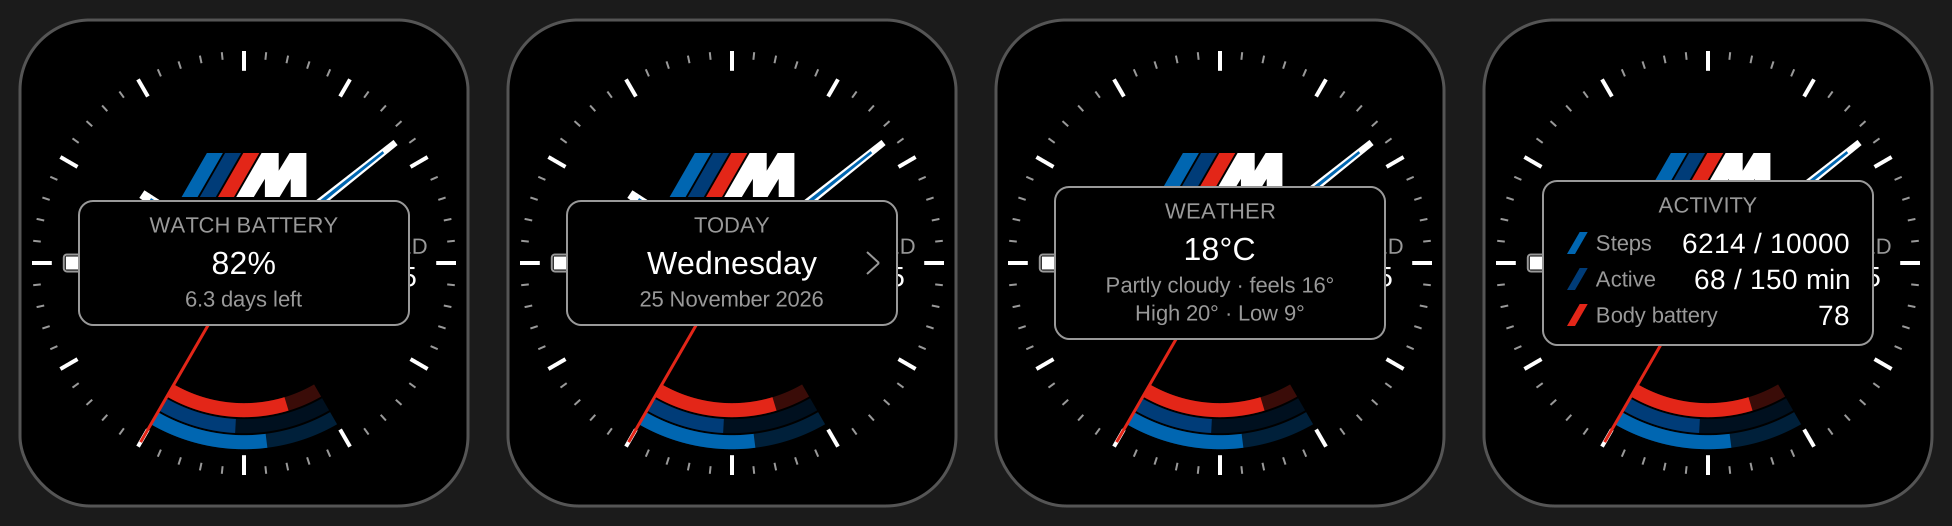
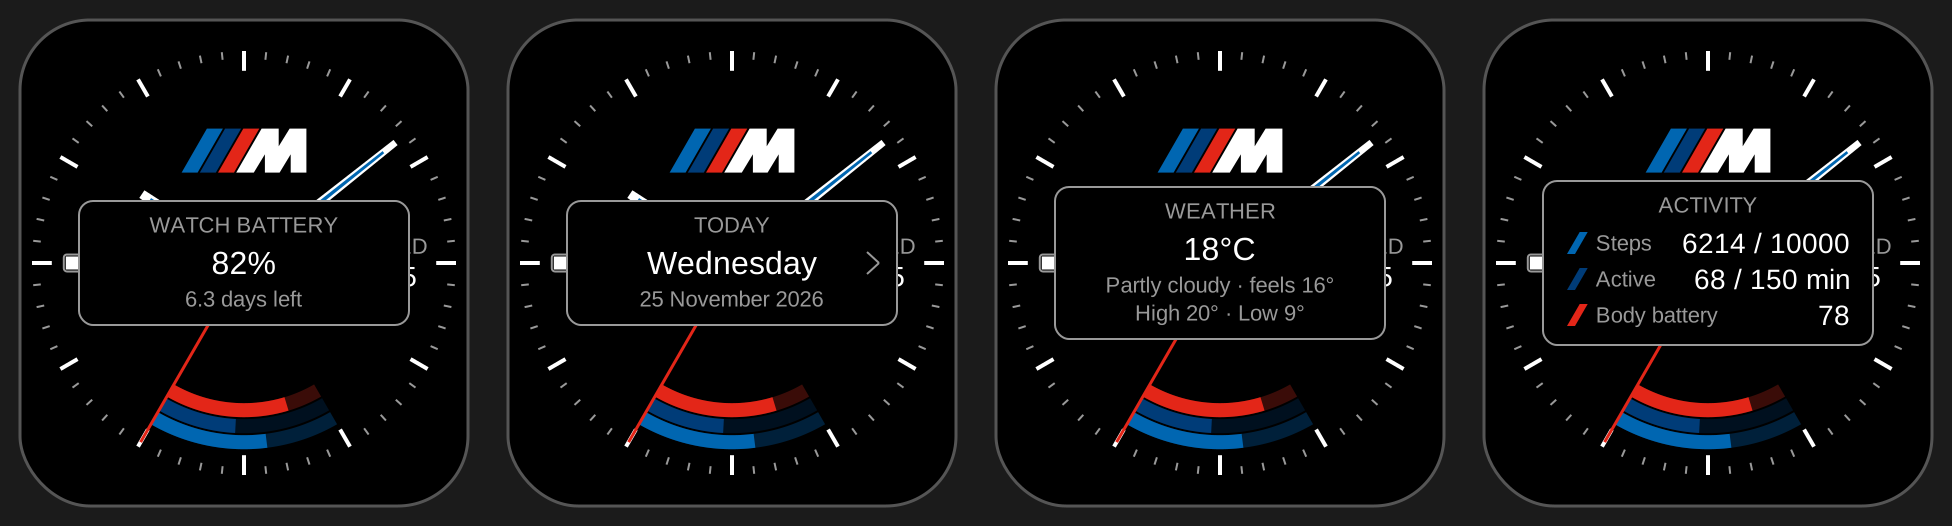
Centre the M badge between the roundel and the 12 o'clock tick (Geometry.badgeCenterY)
Claude-Session: https://claude.ai/code/session_01CEiR5mX4CwQUtKoZKTxSUA

diff --git a/tools/wireframes.py b/tools/wireframes.py
@@ -238,7 +238,7 @@ def dial_into(s, ox, oy, zones=False, card=None):
         inner = outer - (R * TICK_MAJOR if major else R * TICK_MINOR)
         s.line(pt(inner, 90 - i * 6), pt(outer, 90 - i * 6),
                WHITE if major else GREY, 4 if major else 2)
-    draw_badge(s, CY - R * .4)
+    draw_badge(s, CY - (R * .11 + 6 + 2.5 + TICK_INNER) / 2)    # Geometry.badgeCenterY(): midway between the roundel and the ticks
     arc = RING_OUT - PITCH                           # one arc: the middle ring's distance from the centre
     sx = CX + arc                                    # the date window at 3 o'clock
     hl, hv = FONT_PX["label"] * 1.2, FONT_PX["value"] * 1.2        # approximate line heights

diff --git a/README.md b/README.md
@@ -23,7 +23,7 @@ simulator screenshots. They are generated from `source/Theme.mc` by
 
 - Analog chronograph dial with a white-sword hand set, a red second hand
   (hidden in low-power mode) and a roundel at the hand pivot.
-- M badge at 12 o'clock, drawn from the flat M logo's geometry.
+- M badge at 12 o'clock, centred between the roundel and the 12 o'clock tick, drawn from the flat M logo's geometry.
 - Three activity rings inside the lower dial, in the badge colours:
   steps (blue), weekly active minutes (navy) and body battery (red).
 - Two readouts on one arc, the same distance from the centre as the middle ring: the date at
@@ -129,7 +129,7 @@ vary slightly.
 ## Tests
 
 The logic that does not need the watch is split into small modules (`Geometry`, `Logo`, `Stats`,
-`Units`, `Theme`) and covered by Connect IQ unit tests in `source/tests/`: 20 tests for the touch
+`Units`, `Theme`) and covered by Connect IQ unit tests in `source/tests/`: 21 tests for the touch
 hit-testing, the badge geometry, number formatting, the unit conversion and the theme mappings.
 Drawing code and anything that reads live watch data is not tested.
 
